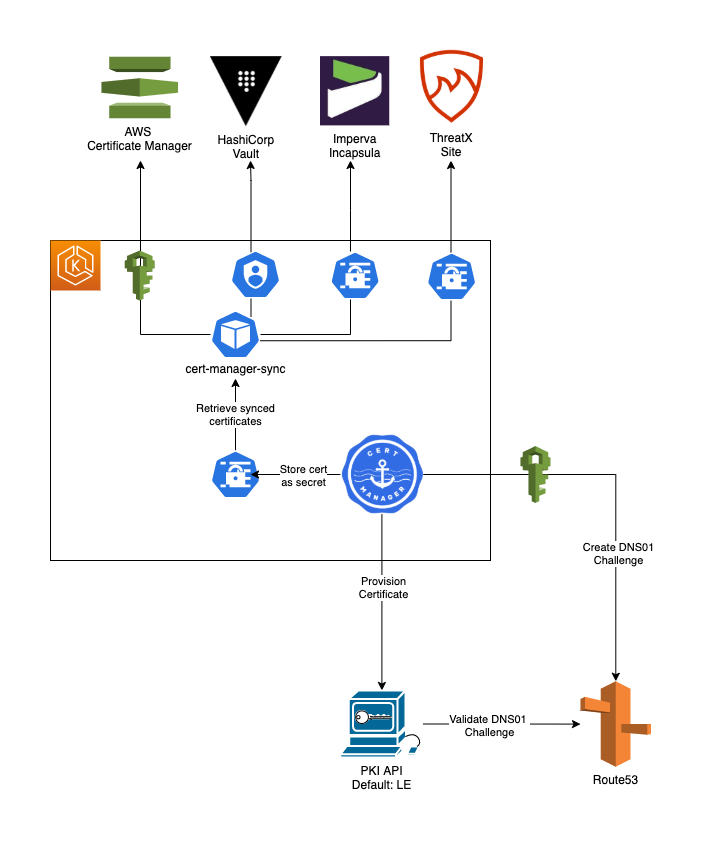
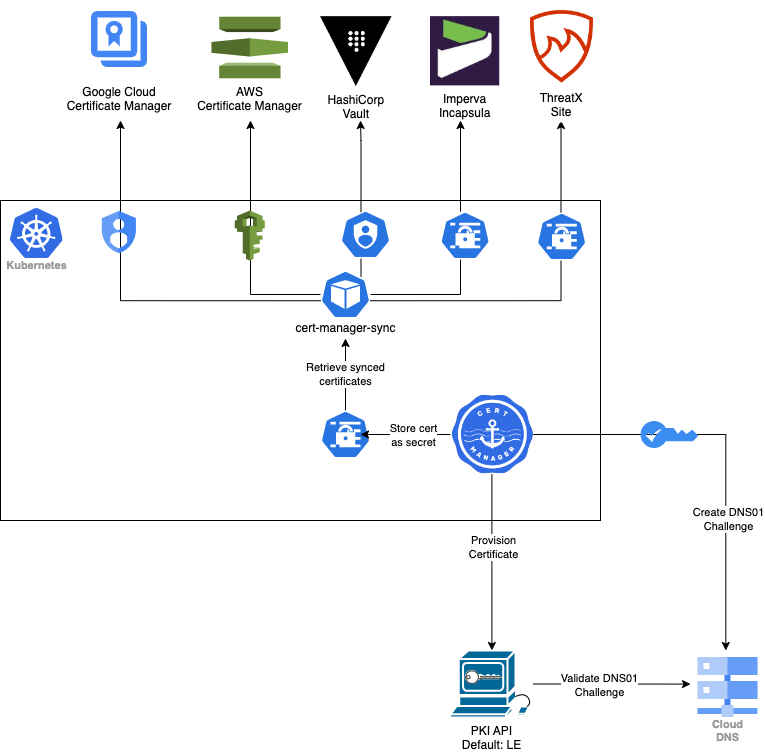
update documentation

diff --git a/README.md b/README.md
@@ -24,6 +24,20 @@ When the certificate is provisioned by `cert-manager`, the `cert-manager-sync` o
 
 ## Authentication
 
+### Google Cloud
+
+Create a service account with `roles/certificatemanager.editor` rolem and attach the service account to the k8s Service Account in `devops/k8s/sa.yaml`.
+```yaml
+---
+apiVersion: v1
+kind: ServiceAccount
+metadata:
+  name: cert-manager-sync
+  namespace: cert-manager
+  annotations:
+    iam.gke.io/gcp-service-account: GSA_NAME@PROJECT_ID.iam.gserviceaccount.com
+```
+
 ### AWS ACM
 
 Create an IRSA role with `acm:*` access, and attach the IAM Role to the k8s ServiceAccount in `devops/k8s/sa.yaml`.
@@ -72,6 +86,9 @@ metadata:
   namespace: cert-manager
   annotations:
     cert-manager-sync.lestak.sh/sync-enabled: "true" # enable sync on tls secret
+    cert-manager-sync.lestak.sh/GCP-enabled: "true"
+    cert-manager-sync.lestak.sh/GCP-location: LOCATION
+    cert-manager-sync.lestak.sh/GCP-project: PROJECT_ID
     cert-manager-sync.lestak.sh/acm-enabled: "true" # sync certificate to ACM
     cert-manager-sync.lestak.sh/acm-role-arn: "" # Role ARN to assume if set
     cert-manager-sync.lestak.sh/acm-region: "" # Region to use. If not set, will use AWS_REGION env var, or us-east-1 if not set
@@ -94,7 +111,8 @@ data:
 
 Create `regcred` registry credential secret in `cert-manager` namespace.
 
-```bash
+If you want to store the certs in different namespaces, modify `SECRETS_NAMESPACE` var in the [deployment file](devops/k8s/deploy.yaml)
 
+```bash
 kubectl apply -f devops/k8s
 ```
